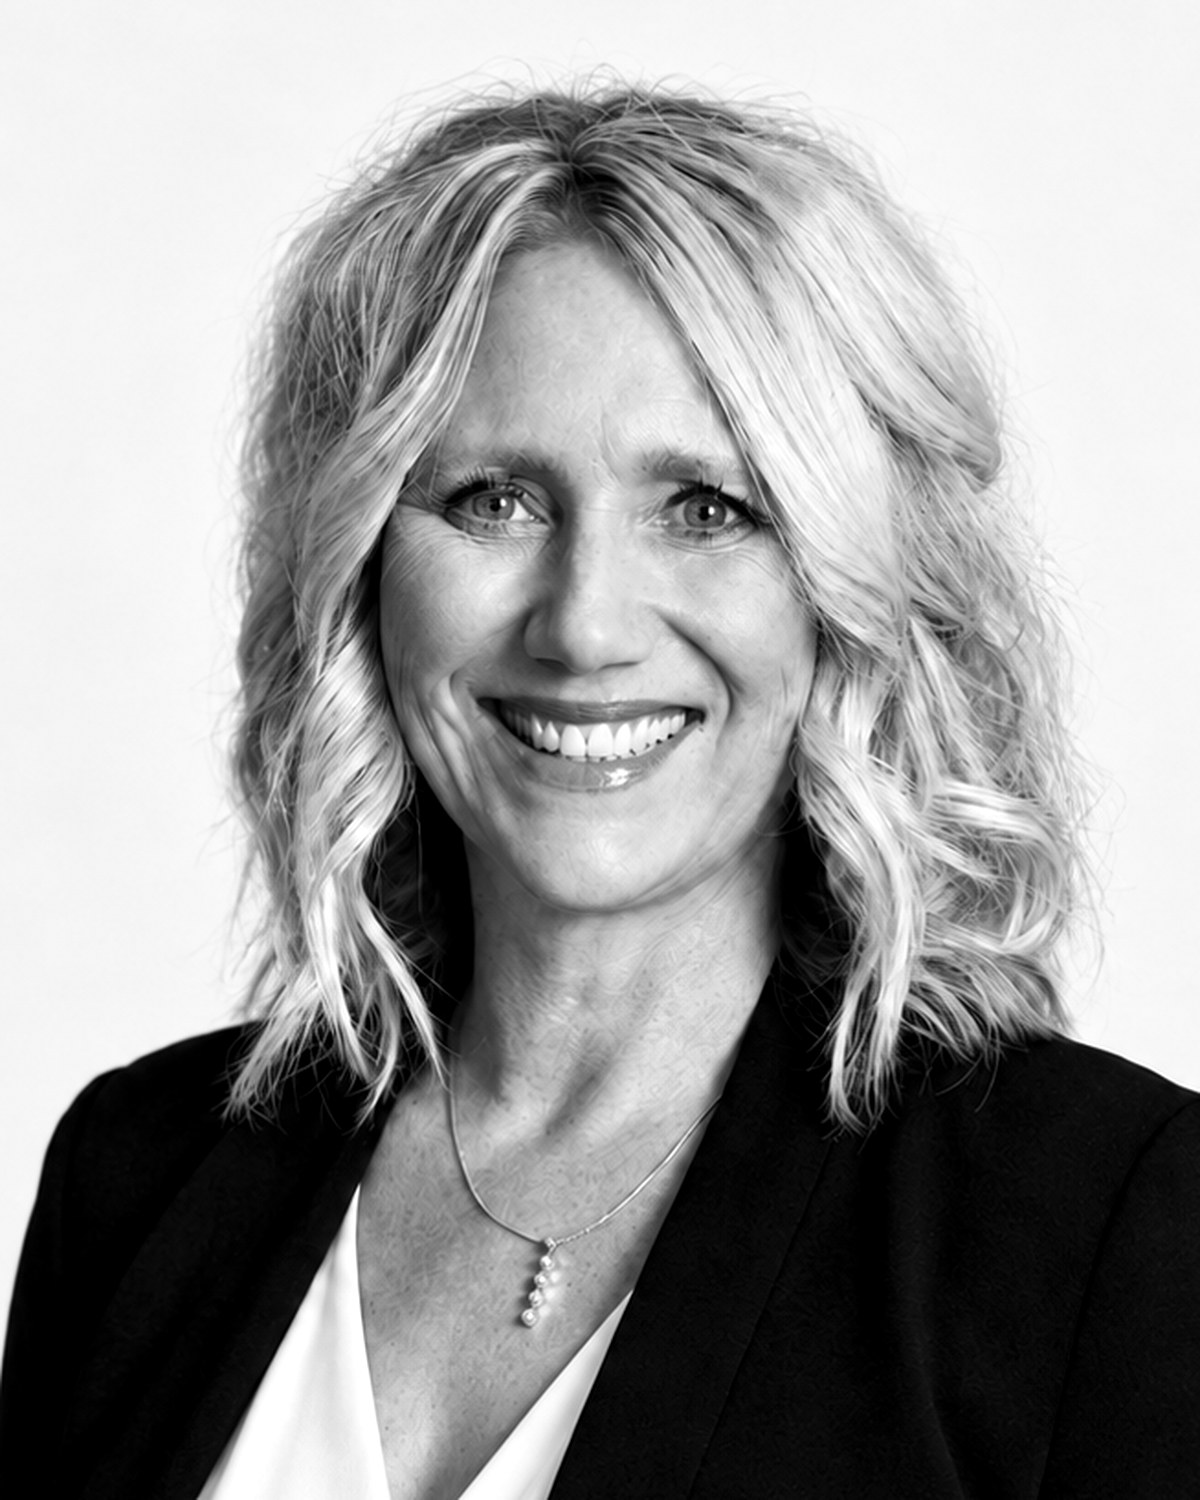
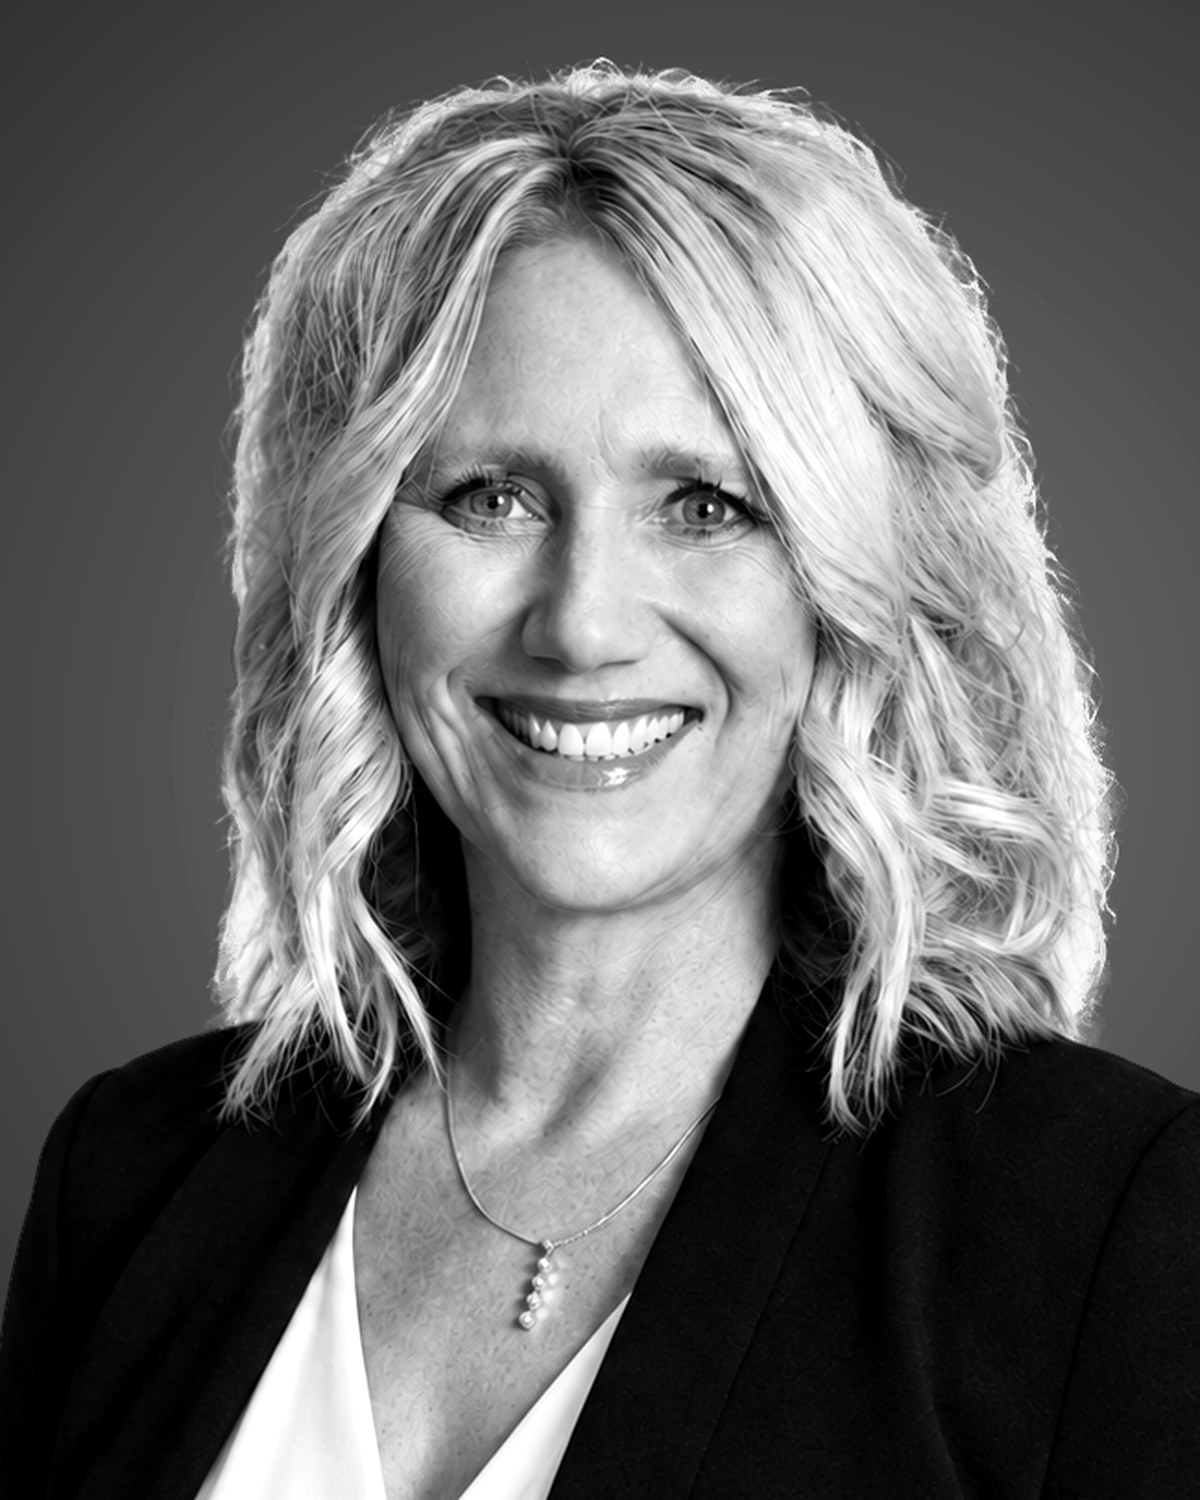
Susan Sorenson: grey background on new headshot
Claude-Session: https://claude.ai/code/session_016DxiLUnyEzNwsPGZrHn11Q

diff --git a/scripts/grey_bg.py b/scripts/grey_bg.py
@@ -1,0 +1,34 @@
+"""Swap a light headshot background for the studio grey used on the team page.
+
+usage: python3 scripts/grey_bg.py <src> <out.png>
+Then run make_headshots.py on <out.png>.
+"""
+import sys
+import numpy as np
+from PIL import Image
+from rembg import remove, new_session
+
+src, out = sys.argv[1], sys.argv[2]
+im = Image.open(src).convert('RGB')
+cut = remove(im, session=new_session('u2net_human_seg'), alpha_matting=True,
+             alpha_matting_foreground_threshold=240,
+             alpha_matting_background_threshold=20,
+             alpha_matting_erode_size=12)
+a = np.asarray(cut.split()[-1], dtype=np.float32) / 255
+a = np.clip((a - 0.1) / 0.8, 0, 1) ** 1.6
+
+g = np.asarray(im.convert('L'), dtype=np.float32)
+h, w = g.shape
+# estimate the original backdrop brightness from pixels that are clearly background
+orig_bg = float(np.median(g[a < 0.02])) if (a < 0.02).any() else 245.0
+# decontaminate edges: remove the light backdrop bleeding into hair/shoulders
+fg = np.where(a > 0.02, (g - (1 - a) * orig_bg) / np.maximum(a, 0.02), g)
+fg = np.clip(fg, 0, 255)
+
+yy, xx = np.mgrid[0:h, 0:w]
+r = np.hypot((xx - 0.5 * w) / w, (yy - 0.4 * h) / h) / 0.75
+bg = np.clip(118 - 110 * r, 52, 118)
+
+res = fg * a + bg * (1 - a)
+Image.fromarray(res.astype(np.uint8), 'L').save(out)
+print('orig_bg', orig_bg)

diff --git a/src/content/people/susan-sorenson.md b/src/content/people/susan-sorenson.md
@@ -3,5 +3,5 @@ name: "Susan Sorenson"
 title: "Office Administrator"
 headshot: /src/assets/images/people/susan-sorenson.jpg
 internal_notes:
-  - "Added Sept 2026 per Josh. Headshot is a B&W photo Josh supplied (light backdrop kept as is), cropped to match the team set."
+  - "Added Sept 2026 per Josh. Headshot is a B&W photo Josh supplied; light backdrop swapped for studio grey (scripts/grey_bg.py) and cropped to match the team set."
 ---
